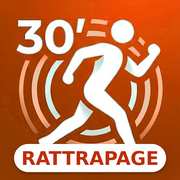
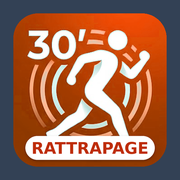
Icône à la couleur de l'activité (charte v1)
Claude-Session: https://claude.ai/code/session_01QNfJk8V2FdZHfoNhsmtJU7

diff --git a/sw.js b/sw.js
@@ -1,7 +1,7 @@
 /* Hors ligne : l'appli est gardée sur l'appareil à la première ouverture avec internet,
    puis s'ouvre sans connexion. La page est rechargée depuis GitHub dès que le réseau répond (3 s max) ;
    les autres fichiers sont servis depuis l'appareil et mis à jour en arrière-plan. */
-const CACHE='marche-30min-v5';
+const CACHE='marche-30min-v6';
 // Toutes les applis partagent le même stockage (même adresse github.io) : on n'efface QUE les anciennes versions de CETTE appli.
 const MES_CACHES=/^(?:marche\-30min\-v)\d+$/;
 
